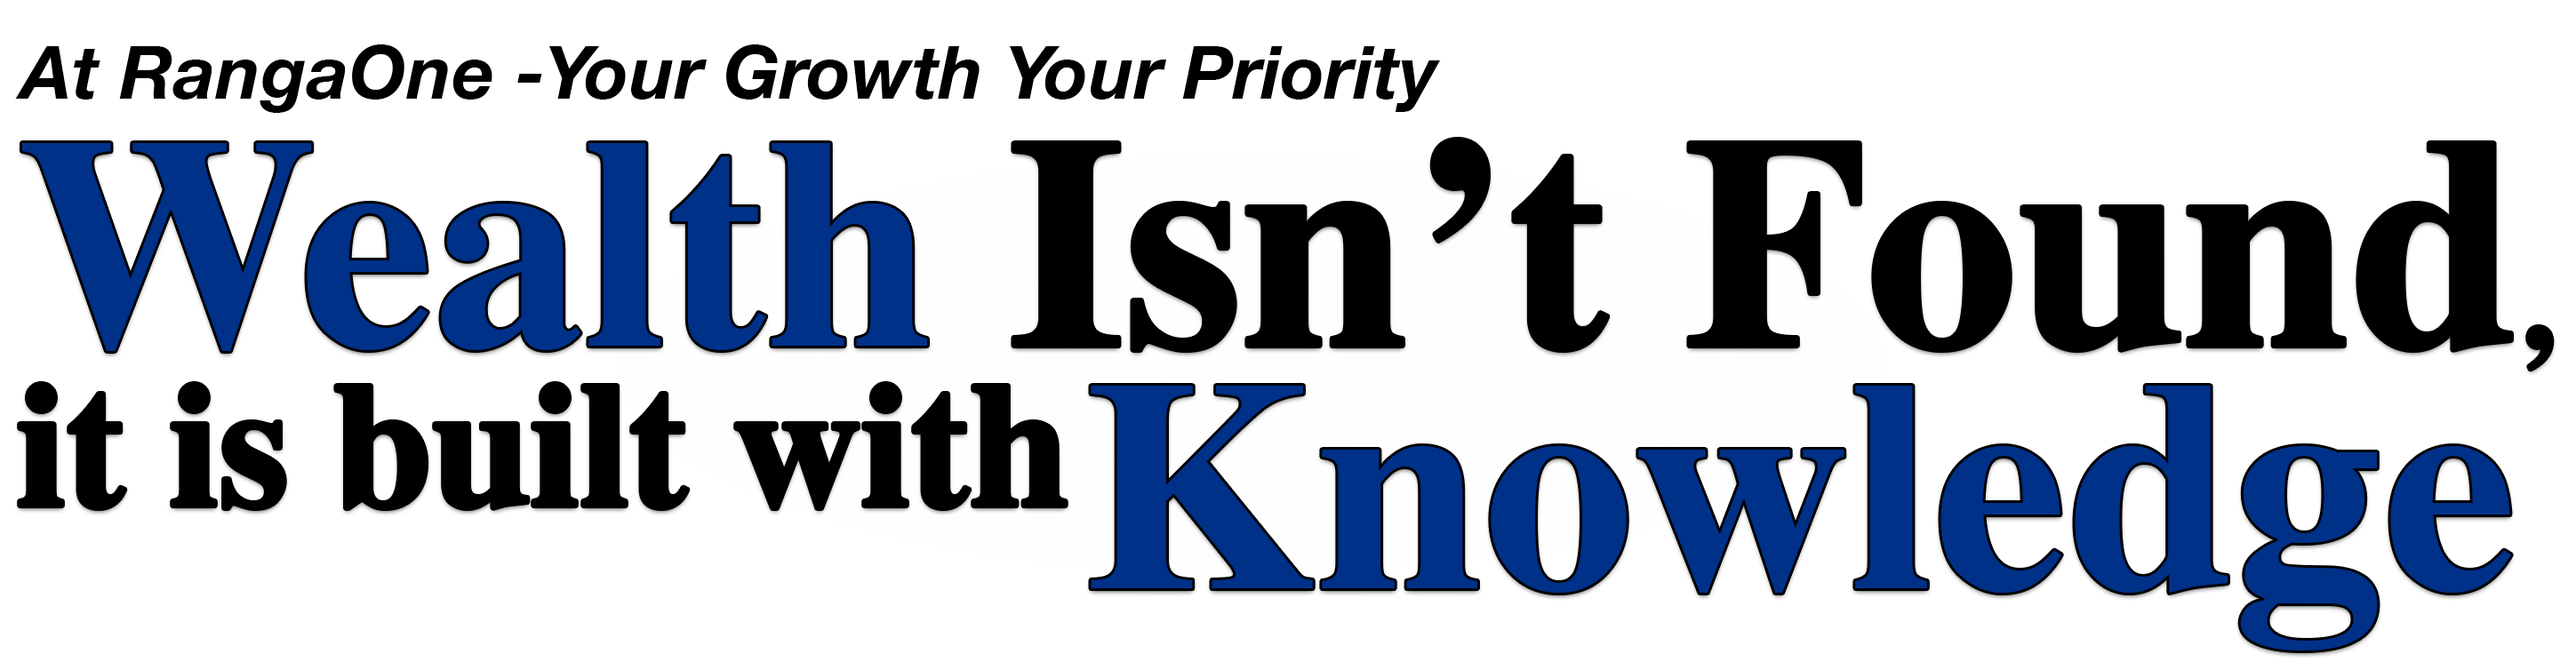
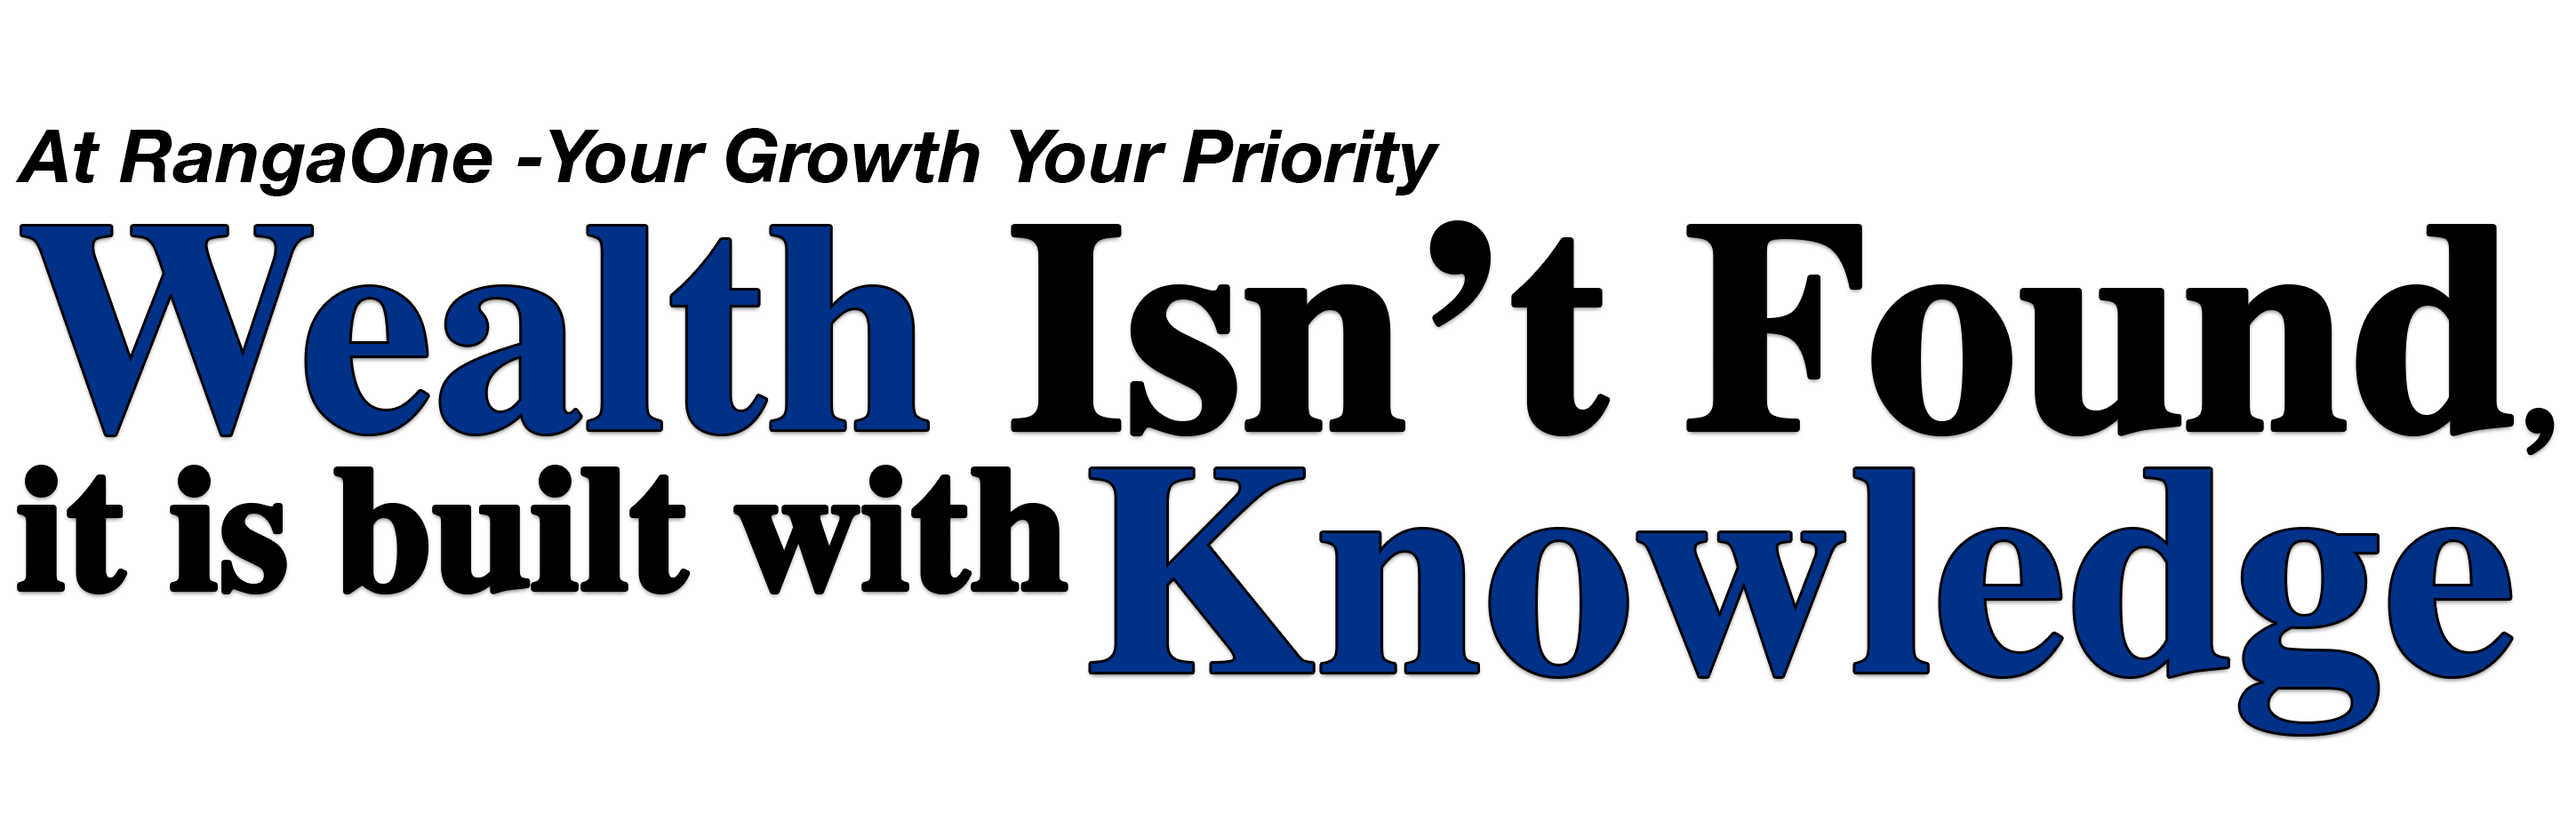
Pushed Changes

diff --git a/components/image-trail-hero.tsx b/components/image-trail-hero.tsx
@@ -39,24 +39,38 @@ export const ImageTrailHero = () => {
 
 const Copy = () => {
   return (
-        <div className="absolute lg:bottom-10 bottom-0 left-0 right-0 z-40">
-          <div className="mx-auto max-w-7xl flex flex-col md:flex-row items-start md:items-end justify-between px-4 md:px-8 relative">
-            <div className="relative w-full">
-              {/* Hero Image pinned to bottom-left for all views */}
-              <div className="absolute bottom-0 left-0 z-10">
-                <img
-                  src="/landing-page/HeroImage.png"
-                  alt="RangaOne Hero"
-                  className="w-full h-auto max-w-full object-contain"
-                  style={{
-                    maxHeight: '40vh',
-                    minHeight: '200px',
-                  }}
-                />
-              </div>
-            </div>
-          </div>
+    <div className="absolute bottom-0 left-0 right-0 z-40">
+    <div className="mx-auto max-w-7xl flex flex-col md:flex-row items-start md:items-end justify-between px-4 md:px-8 relative">
+      <div className="relative w-full">
+        {/* Mobile Hero Image */}
+        <div className="absolute bottom-0 left-0 z-10 block md:hidden">
+          <img
+            src="/landing-page/mobileHeroImage.png"
+            alt="RangaOne Hero Mobile"
+            className="w-full h-auto max-w-full object-contain"
+            style={{
+              maxHeight: '40vh',
+              minHeight: '150px',
+            }}
+          />
         </div>
+  
+        {/* Desktop Hero Image */}
+        <div className="absolute bottom-0 left-0 z-10 hidden md:block">
+          <img
+            src="/landing-page/HeroImage.png"
+            alt="RangaOne Hero Desktop"
+            className="w-full h-auto max-w-full object-contain"
+            style={{
+              maxHeight: '50vh',
+              minHeight: '250px',
+            }}
+          />
+        </div>
+      </div>
+    </div>
+  </div>
+  
 
   )
 }
